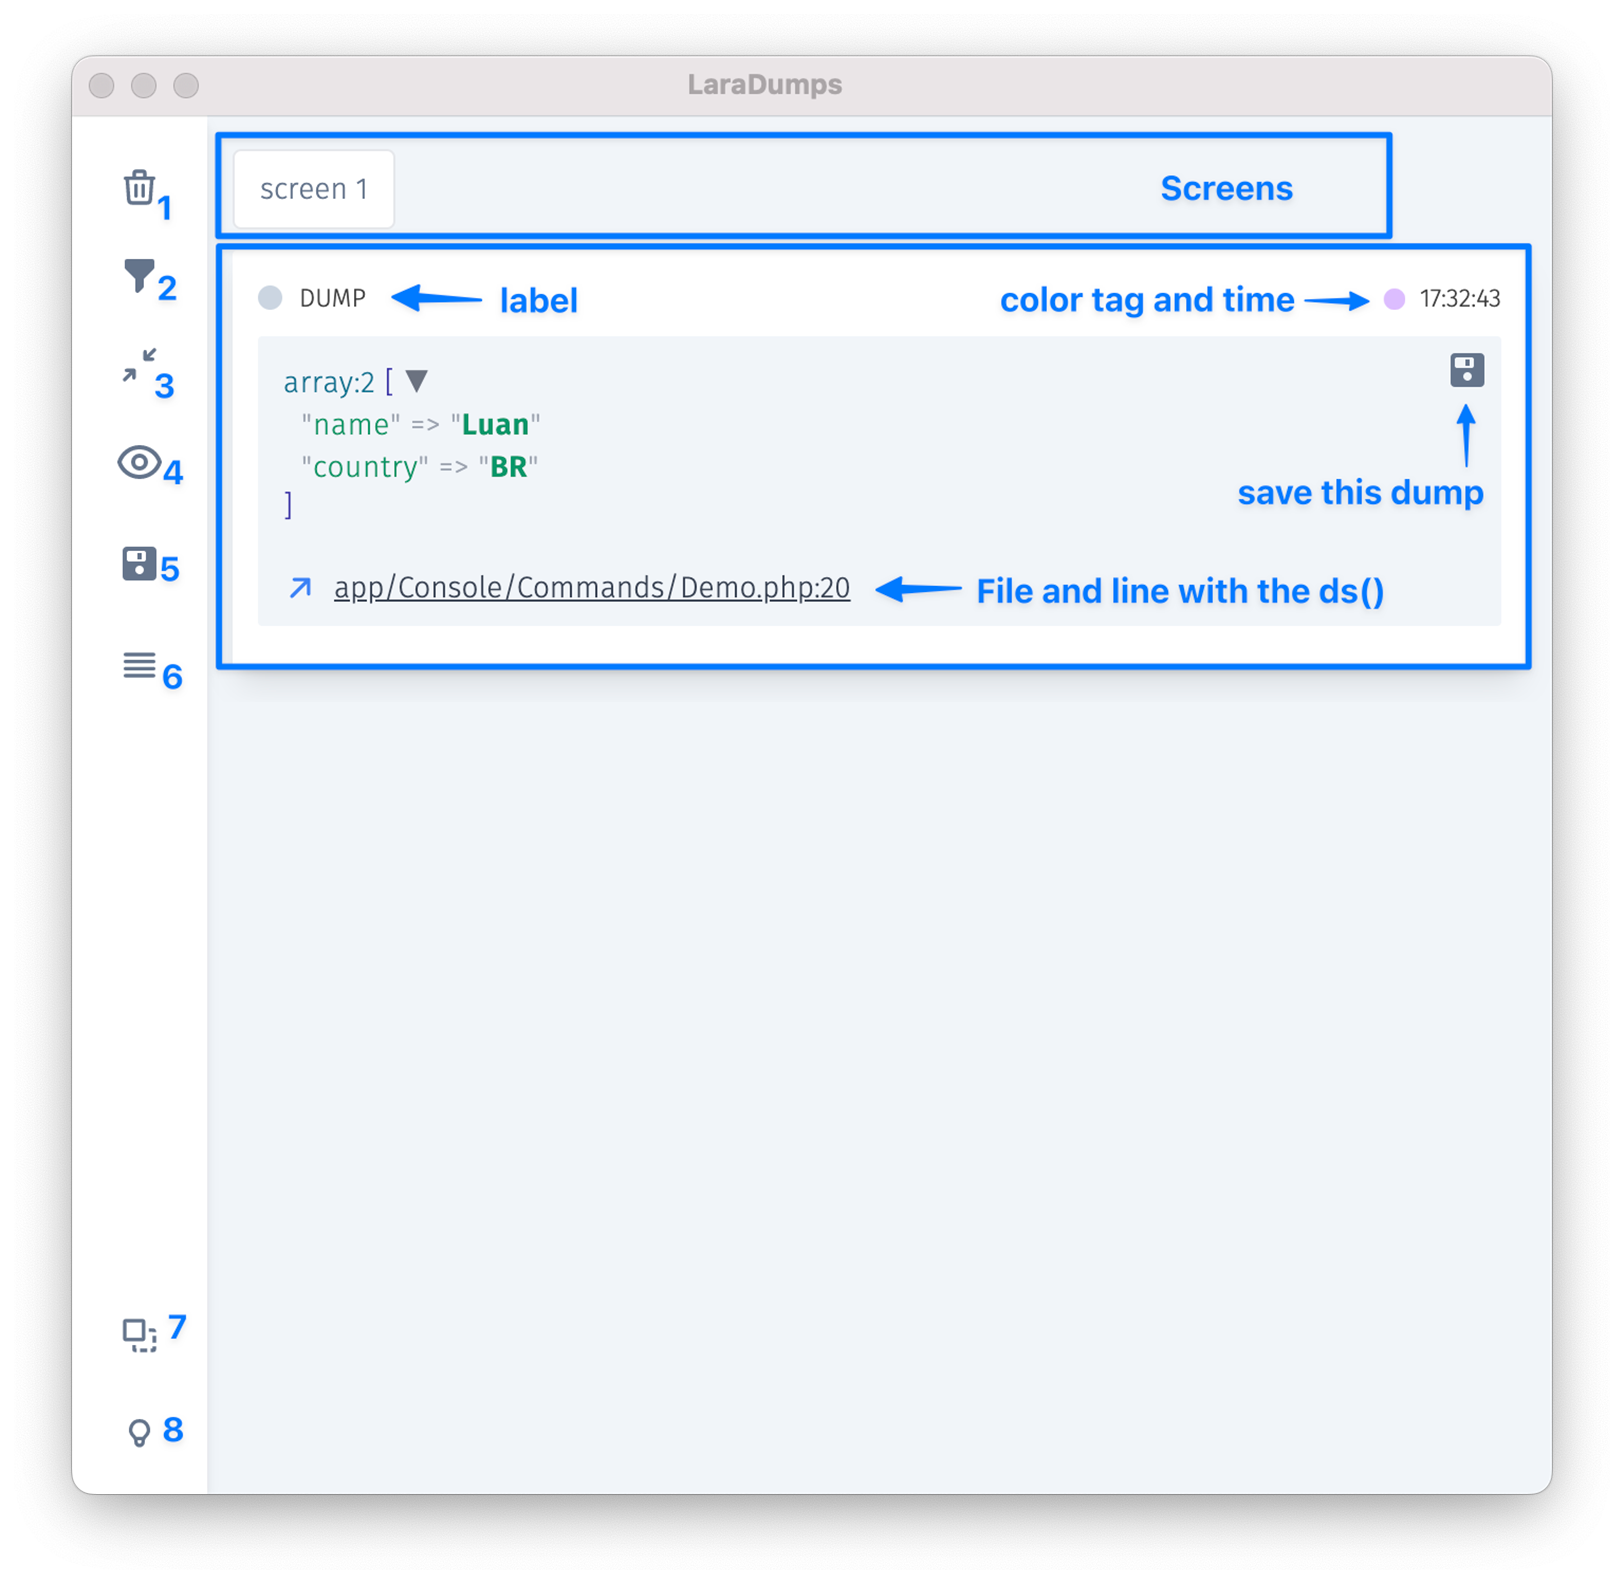
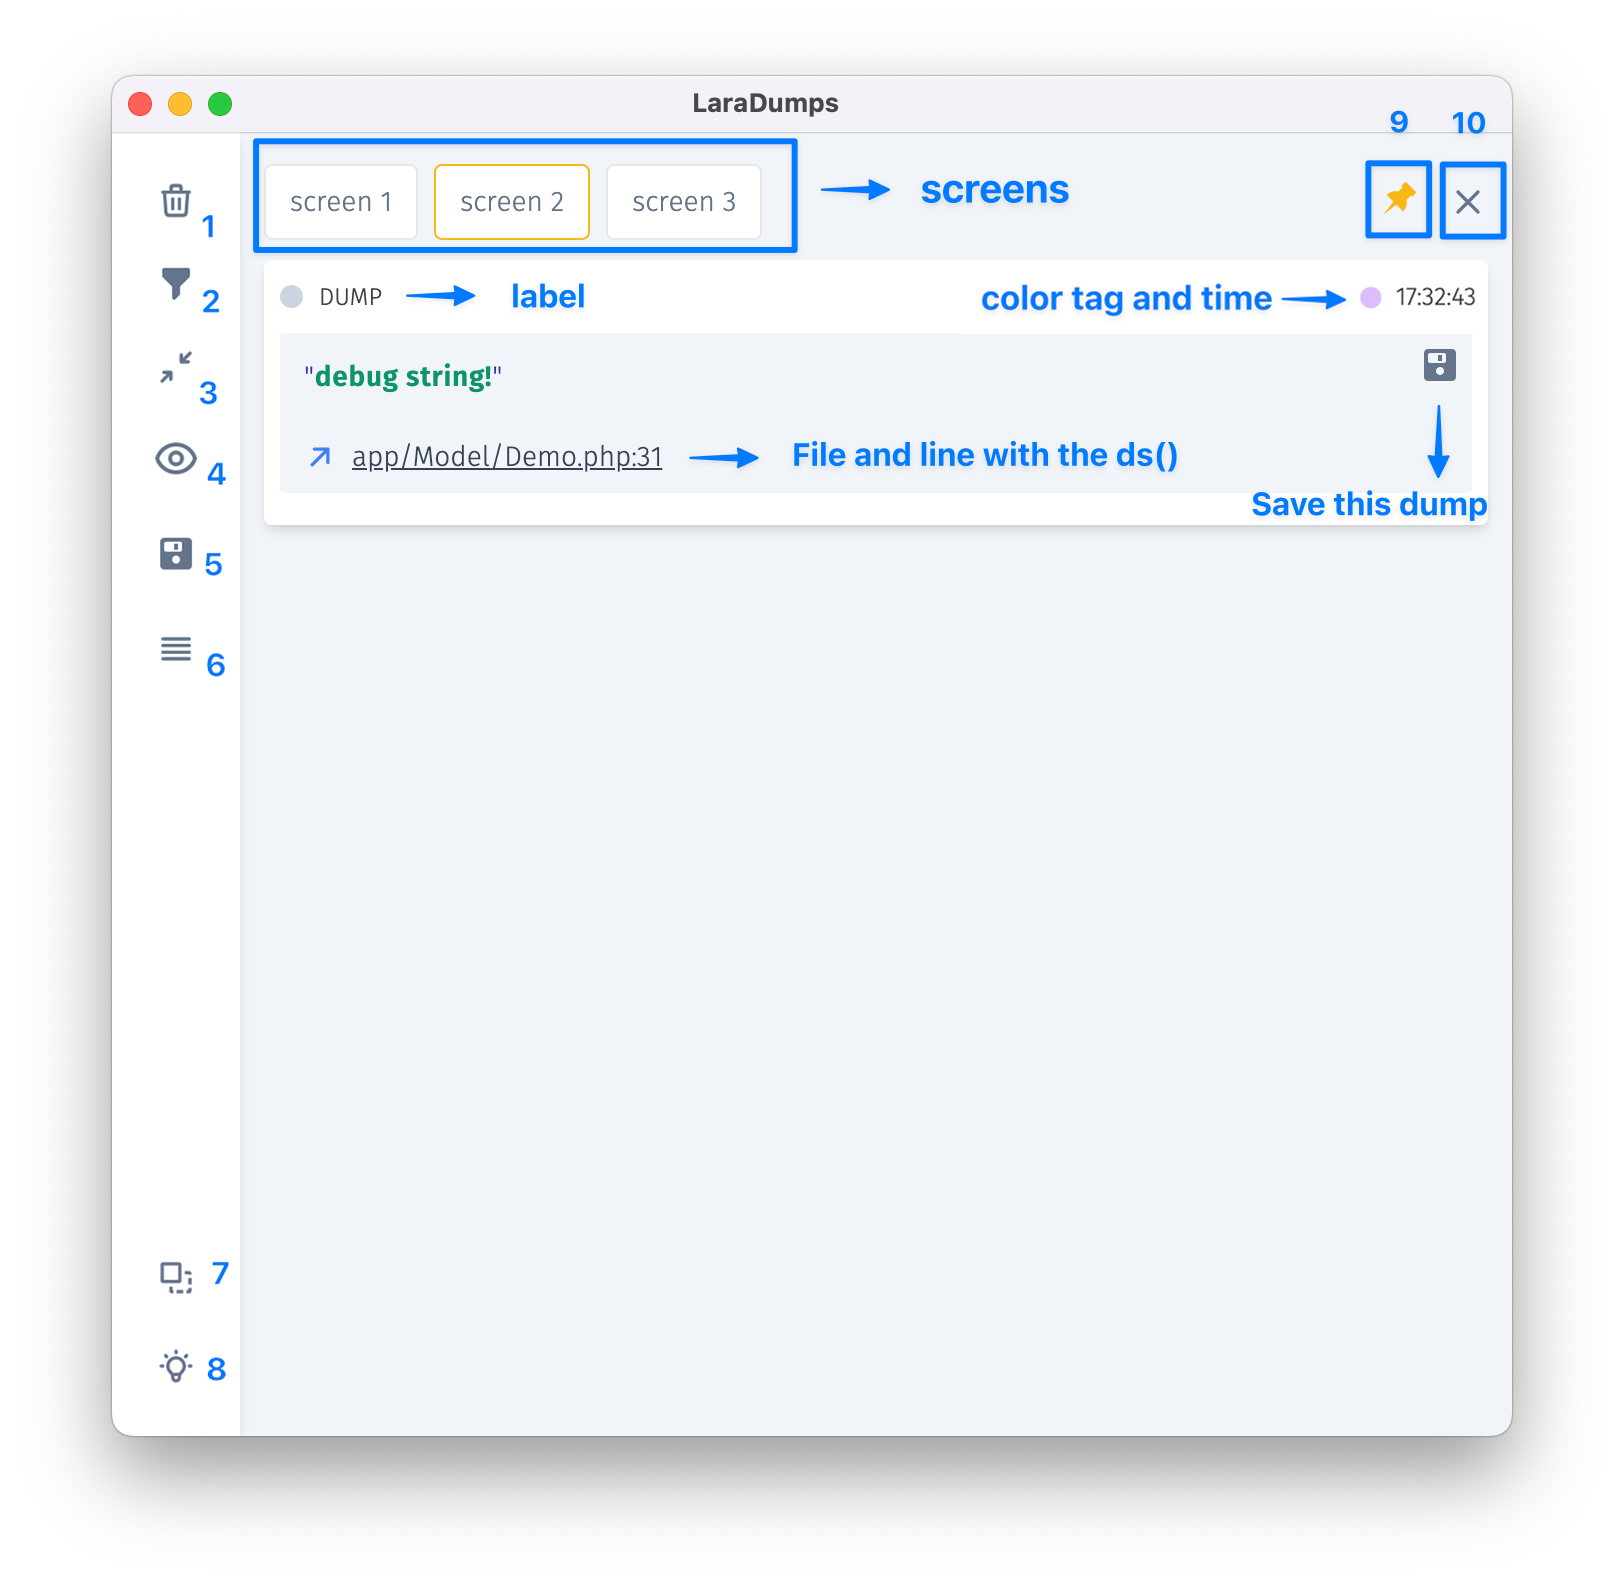
Improve app & Pin feature

Changed region(s): [[0.0308, 0.0309, 0.9852, 0.959], [0.4926, 0.2784, 0.7389, 0.3093], [0.431, 0.2784, 0.4618, 0.3093]]

diff --git a/docs/laravel/get-started/desktop-app.md b/docs/laravel/get-started/desktop-app.md
@@ -8,12 +8,12 @@ The following image shows an example of a dump lists the main items available at
 
 LaraDumps Desktop App functionalities:
 
-- *Screens*: In this section, you will see the list of screens specified with `ds()->toScreen()` function.
+- *Screens*: List of opened screens.
 - *Label*: Each dump has its own label. Read more about [Labels](laravel/debug/usage?id=label).
 - *Color tag*: Each dump has its own color tag. Read more about [Color tags](laravel/debug/usage?id=color-tag).
 - *Save*: Click here to save and preserve the dump when the screen is cleared.
 - *File & line number*: This label shows the file and line where the `ds()` was called from. Click on it to open the file in your preferred IDE.
-- **Button #1:** Clear all screens
+- **Button #1:** Clear all dumps from all screens.
 - **Button #2:** Lists of files of each dump.
 - **Button #3:** Collapse/Expand all dumps.
 - **Button #4:** Toggle privacy mode. In privacy mode, the filename and SQL connections are hidden. This is useful when you need to share a screenshot.
@@ -21,3 +21,5 @@ LaraDumps Desktop App functionalities:
 - **Button #6:** Re-order: Allows you to drag and re-organize your dumps sequence.
 - **Button #7:** Toggle window "Always on top".
 - **Button #8:** Toggle Light/Dark Mode.
+- **Button #9:** Pin the active screen. The yellow pin and yellow bordered screen buttons indicate a pinned screen.
+- **Button #10:** Clear all dumps from active screen.
